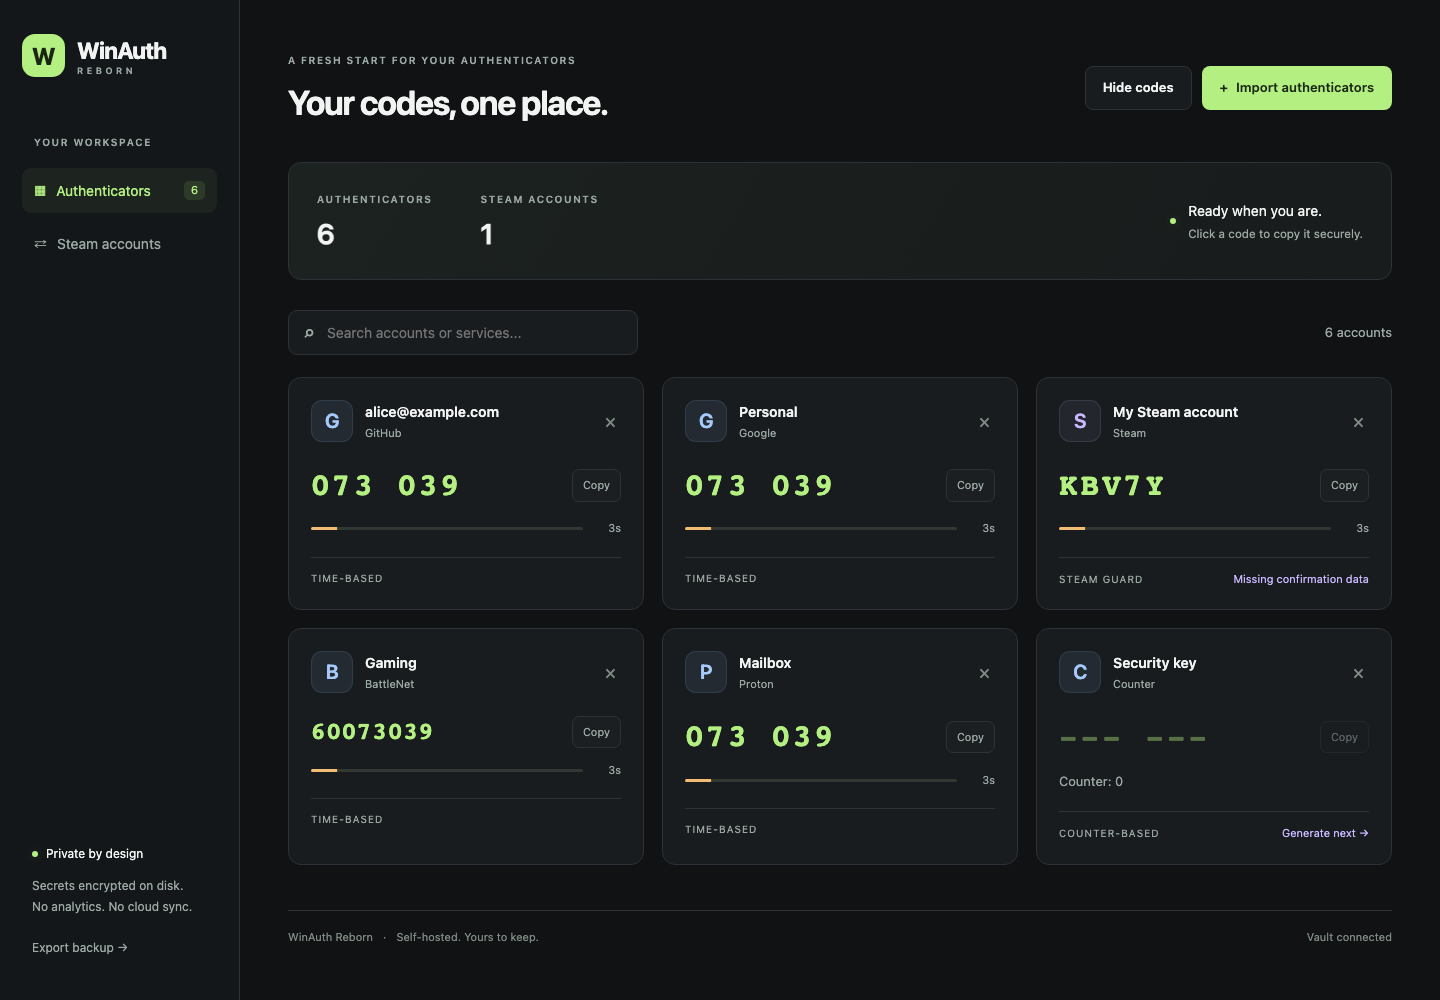
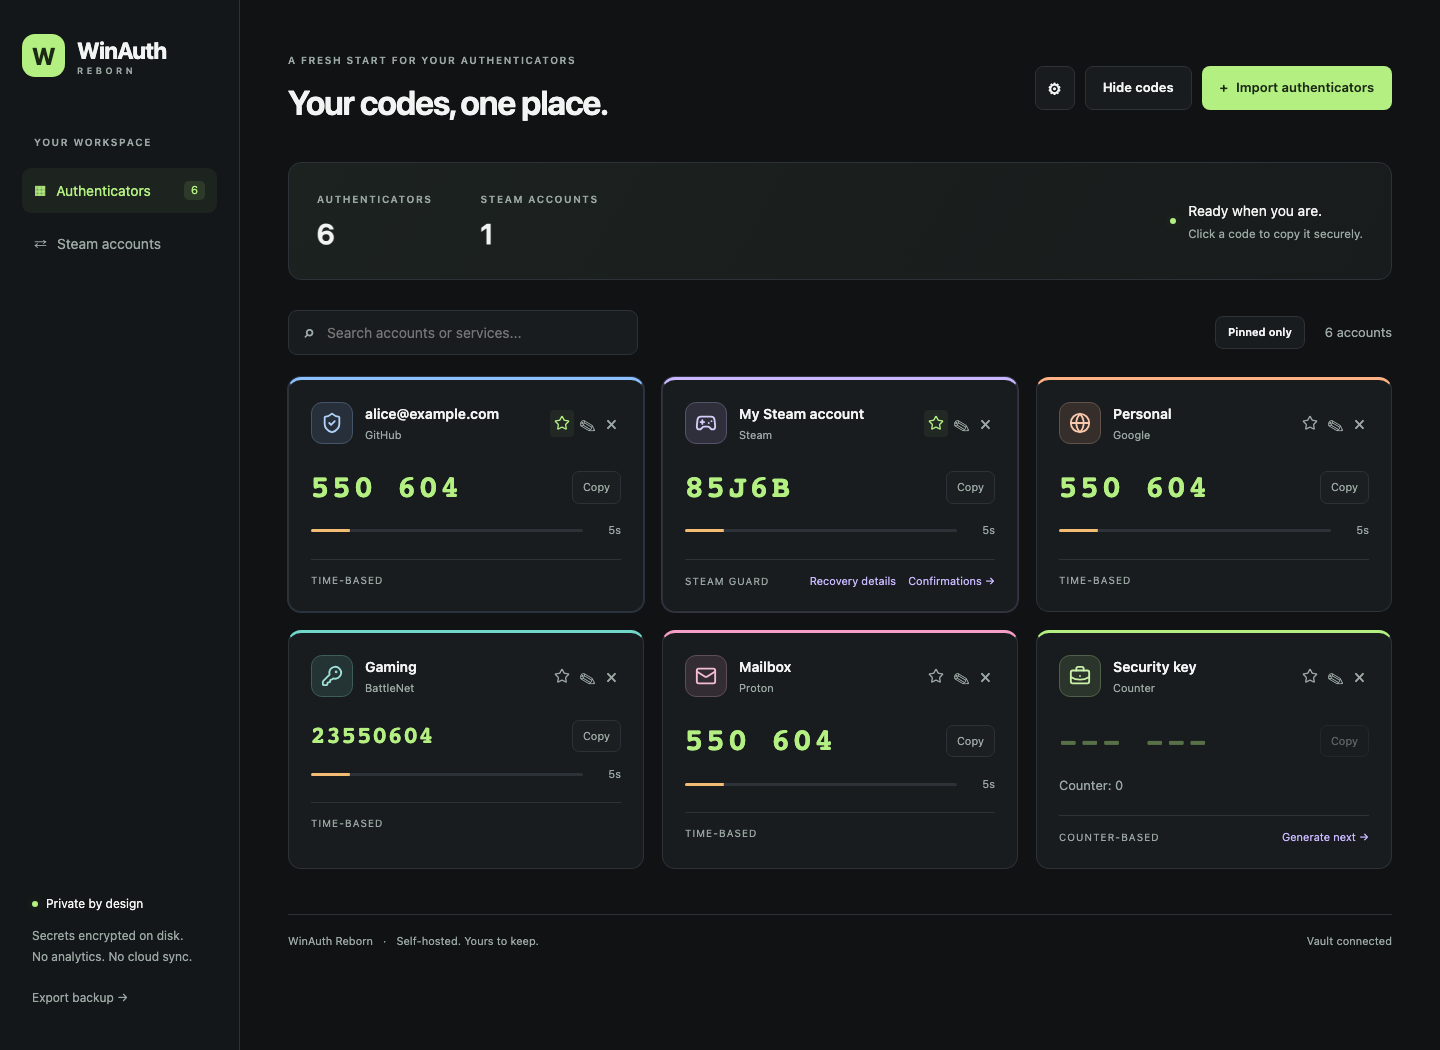
docs: document customization settings and Steam recovery
Document safe editing, icon limits, pins, preferences, recovery disclosure and backup compatibility, with synthetic light and dark previews.

diff --git a/README.md b/README.md
@@ -1,10 +1,17 @@
 # WinAuth Reborn
 
 A small, self-hosted replacement for WinAuth: Python server, plain HTML/CSS/JavaScript,
-and a responsive dark UI. Import your original **WinAuth plain-text `.txt` export**,
+and a responsive light/dark UI. Import your original **WinAuth plain-text `.txt` export**,
 copy live codes, and manage Steam confirmations in one place.
 
 ![WinAuth Reborn desktop interface, using synthetic accounts](docs/screenshot.png)
+
+<details>
+<summary>Light theme preview</summary>
+
+![WinAuth Reborn light theme, using synthetic accounts](docs/screenshot-light.png)
+
+</details>
 
 **Status:** initial alpha. MIT-licensed; no affiliation with Valve or WinAuth.
 
@@ -53,7 +60,7 @@ Use **Import authenticators** to select/drop the file, or paste its contents.
 - Steam's Base32 login secret, `deviceid`, and URL-encoded JSON `data` are preserved.
   The login code is Steam's five-character code, not a numeric TOTP.
 - Battle.net's eight-digit TOTP and `serial` parameter are supported. Unknown URI
-  parameters, including WinAuth icons, survive export; custom icons are not rendered.
+  parameters, including legacy WinAuth icon data, survive export.
 - Invalid imports fail atomically with a line number. Repeated accounts are skipped;
   they never reset a HOTP counter or overwrite a stored Steam session.
 - **Copy** or click a live code. Codes are generated server-side; countdowns use
@@ -70,6 +77,62 @@ Encrypted ZIP/PGP exports and WinAuth XML configuration files are **not** plain-
 exports. Decrypt or export to plaintext locally before importing; this app does not
 enroll new hardware authenticators, recover lost secrets, or migrate device-bound
 WinAuth encryption. It copies **one-time authentication codes**, not account passwords.
+
+## Customize cards and preferences
+
+Use the pencil button on any card to edit its name, issuer, icon, color, or pinned
+state. Ordinary TOTP/HOTP accounts also expose algorithm, digits, period, and
+optional Base32 secret replacement under **Authenticator parameters**. Leaving the
+secret field empty preserves the existing secret; it is never preloaded into the
+editor. Changing a secret requires an extra confirmation and does **not** update
+the service's configuration. HOTP counters and Steam sessions survive edits.
+Steam key parameters stay read-only; its name and appearance are editable.
+
+Choose from a locally bundled [Lucide](https://lucide.dev/) SVG selection, use the
+account's initial, or upload a custom PNG/JPEG/WebP icon. Uploads are limited to
+128 KB and 2048-pixel dimensions, resized to at most 64 x 64, and stripped of
+metadata. External icon URLs and arbitrary uploaded SVGs are not accepted. No
+third-party icon service is contacted.
+
+The star button pins/unpins a card. Pinned cards always appear first within the
+selected sort order; **Pinned only** combines with search and the Steam filter.
+Card colors, icons, and pin state persist in the encrypted vault and round-trip
+through `x-reborn-*` URI extensions in `.txt` backups. WinAuth ignores these extra
+parameters without losing the authenticator's standard fields. Existing legacy
+WinAuth embedded icons are preserved in the URI but are not automatically rendered.
+
+Open the gear button for **Settings**:
+
+- **Theme:** dark, light, or follow the operating system, including live system
+  theme changes.
+- **Card density:** comfortable or compact.
+- **Card order:** original import order, account name, or issuer; pins take priority.
+- **Privacy:** hide codes on initial load and optionally after 30 seconds,
+  1 minute, or 5 minutes of inactivity. Hidden codes remain copyable.
+- **Keyboard shortcuts:** `/` focuses search, `H` hides/shows codes, and `,` opens
+  settings. Shortcuts do not run while typing or inside a dialog.
+
+**Restore defaults** fills the default choices; click **Save settings** to apply
+them. Preferences are shared across authenticated devices because this remains
+a single-owner vault. They are encrypted in the database, not in browser storage.
+They are included in database/key backups, not in `.txt` exports. Basic Auth
+credentials are still configured through `.env`, not through the preferences UI.
+Code hiding is a visual privacy feature, not a vault lock or reauthentication.
+
+### Steam Guard secret and recovery code
+
+Choose **Recovery details** on a Steam card and explicitly confirm the reveal.
+The dialog shows the current Steam Guard login code, the authenticator secret in
+Base32 and Base64, the recovery/revocation code, and the serial when present.
+Each value has a copy button. This works offline from the imported authenticator
+data and does not require a Steam web login or an `identity_secret`.
+
+Missing recovery data is labeled **Not included in the imported export**; the app
+cannot recover a code that was never exported. Keep these values private: a
+revocation code can remove the mobile authenticator. The dialog clears on close,
+after 60 seconds, or when the tab/page becomes hidden. Clearing the dialog does
+not erase values already copied to the clipboard. Recovery secrets are never
+included in the normal account-list response.
 
 ## Steam confirmations
 
@@ -175,7 +238,7 @@ python -m pip install -e '.[dev]'
 python -m pytest
 ruff check .
 ruff format --check .
-node --check winauth_reborn/static/app.js
+for script in winauth_reborn/static/*.js; do node --check "$script"; done
 ```
 
 Tests use synthetic fixtures and mocked Steam responses, never real credentials.
@@ -192,3 +255,5 @@ Steam protocol behavior was cross-checked against the public
 [steampy login](https://github.com/bukson/steampy/blob/master/steampy/login.py) and
 [confirmation](https://github.com/bukson/steampy/blob/master/steampy/confirmation.py)
 implementations. This project is not affiliated with Valve or the original WinAuth.
+The bundled Lucide originals are ISC-licensed; their attribution and license are
+included in `winauth_reborn/static/icons/LICENSE` and the Python package.

diff --git a/CHANGELOG.md b/CHANGELOG.md
@@ -1,5 +1,19 @@
 # Changelog
 
+## 0.2.0
+
+- Added editable account names, issuers, token parameters, and optional secret
+  replacement without resetting HOTP counters or Steam sessions.
+- Added locally bundled Lucide icons, validated raster icon uploads, custom card
+  colors, persistent pins, and a pinned-only filter.
+- Added encrypted owner preferences for themes, compact density, ordering,
+  default code privacy, and idle hiding, plus keyboard shortcuts.
+- Added dark, light, and live system-following themes.
+- Added explicitly revealed Steam Guard secrets and recovery/revocation codes,
+  with copying and automatic clearing after 60 seconds or when hidden.
+- Added compatible backup extensions for card appearance and pin state, and
+  regression coverage for editing, settings, themes, and timed recovery clearing.
+
 ## 0.1.0
 
 Initial alpha release:

diff --git a/SECURITY.md b/SECURITY.md
@@ -21,6 +21,10 @@ fixtures and a minimal reproduction instead.
 - Keep the upstream port private. Add rate limiting and, preferably, VPN or
   network access restrictions at the reverse proxy.
 - All clients share the same vault; this is not multi-tenant software.
+- Code hiding and idle privacy are visual controls, not authentication locks.
+  Steam recovery details require an explicit authenticated, CSRF-protected reveal
+  and clear from the UI when closed, hidden, or timed out; copied clipboard values
+  remain sensitive.
 - The running host holds the encryption key. Encryption at rest does not protect
   against a compromised server, process, backup containing both files, or browser.
 - Keep Python, containers, and dependencies patched. Use a non-root service user,

diff --git a/CONTRIBUTING.md b/CONTRIBUTING.md
@@ -14,7 +14,7 @@ playwright install chromium
 python -m pytest
 ruff check .
 ruff format --check .
-node --check winauth_reborn/static/app.js
+for script in winauth_reborn/static/*.js; do node --check "$script"; done
 ```
 
 Keep changes focused. Add deterministic tests for parser compatibility, cryptography,
